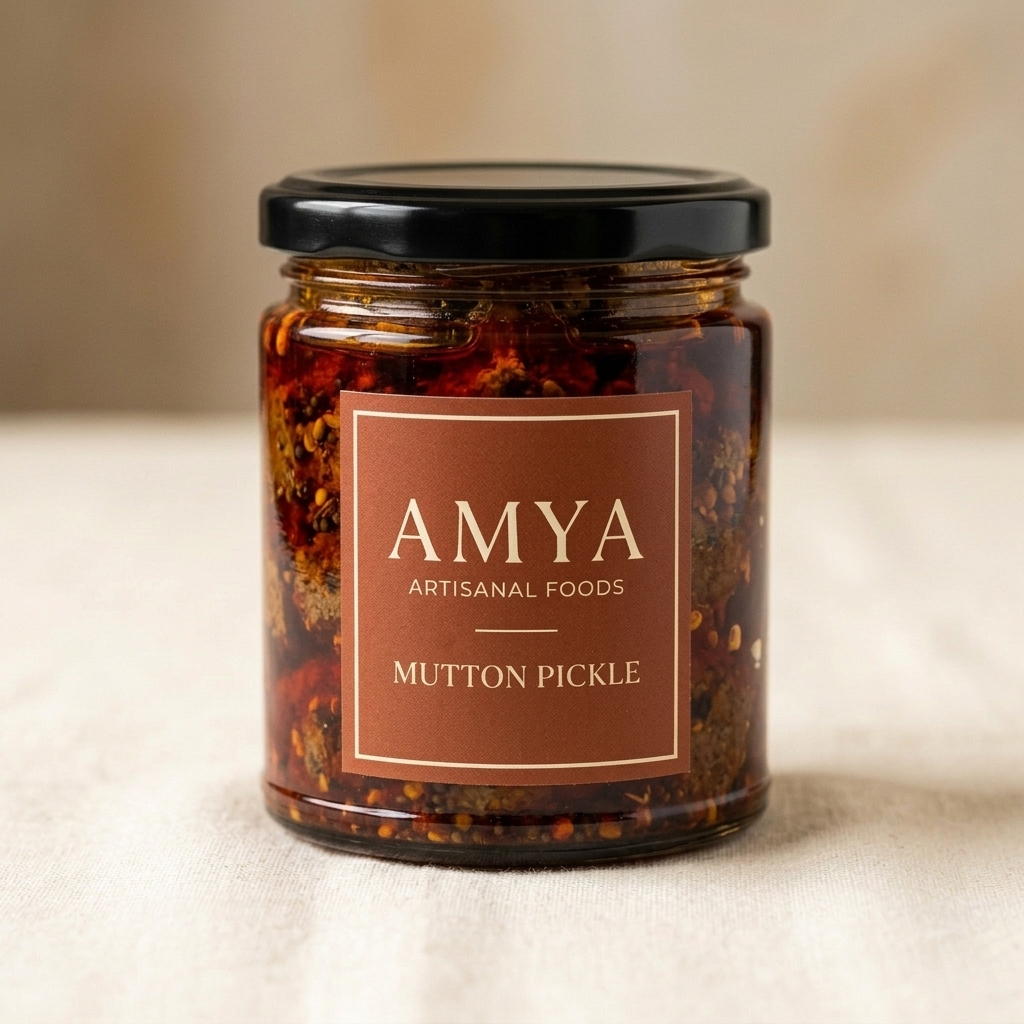
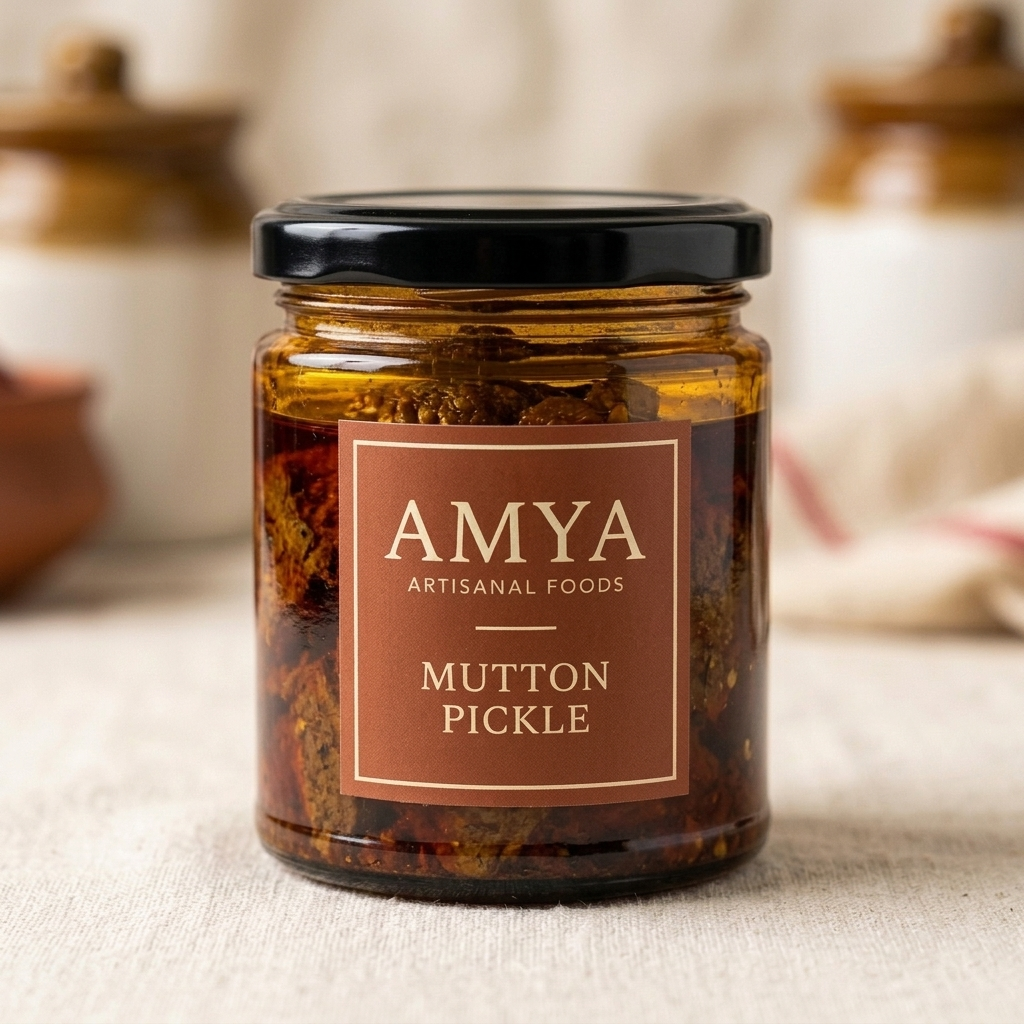
I have addressed the three targeted fixes with minimal, scoped changes and verified them through mobile preview.
**1. Oil promo card** has been compacted by adjusting paddings, gaps, and margins while keeping the same styling, wording, offers, Hyderabad-only notice, and WhatsApp button. It's shorter on mobile but remains readable.

**2. Oils show only "1 litre"** by removing the 500 ml option in the seed that sets oil pack sizes. Cards, detail pages, and variant selectors reflect this. Prices, names, availability, images, and descriptions remain unchanged.

**3. Pickle jars now are genuine amber glass** — I regenerated six pickle jars from a master jar with visibly dark amber glass, maintaining jar size, caps, and labels. Only the six pickle image files were changed; other product images were untouched. Availability and prices remain the same.

The changes have been previewed on mobile at 390px: compact card, "1 litre" only, and consistent amber jars. Preview here: https://amya-artisanal.preview.emergentagent.com (see /shop/oils and /shop/pickles).

Although these updates are in preview and not yet published, I encourage you to review them and inform me if further adjustments are needed or if the fixes work as intended. I can also continue with comprehensive testing if necessary.

**Next Steps:**
- Approve & Publish: Confirm the preview so I can deploy updates to amyafoods.in together
- Real Pickle Photos: Provide photos of actual jars to replace the current images
- Spice Prices: Share prices for Chilli, Turmeric, Cumin, Coriander to update pricing
[…]

diff --git a/frontend/src/components/OilRefillOffer.jsx b/frontend/src/components/OilRefillOffer.jsx
@@ -11,18 +11,18 @@ export const OilRefillOffer = () => {
     <Reveal>
       <div
         data-testid="oil-refill-offer"
-        className="rounded-2xl border border-terracotta/30 bg-terracotta/5 px-6 py-7 sm:px-8 sm:py-8 mb-8 sm:mb-10"
+        className="rounded-2xl border border-terracotta/30 bg-terracotta/5 px-5 py-5 sm:px-8 sm:py-7 mb-6 sm:mb-10"
       >
         <span className="font-sans text-[11px] uppercase tracking-[0.25em] text-terracotta">Hyderabad only</span>
-        <h2 className="font-serif text-2xl sm:text-3xl text-ink mt-2 leading-tight [text-wrap:balance]">
+        <h2 className="font-serif text-xl sm:text-3xl text-ink mt-1.5 leading-tight [text-wrap:balance]">
           Bring Your Own Bottle &amp; Save ₹60
         </h2>
-        <p className="font-sans text-sm sm:text-base text-ink-soft mt-2 leading-relaxed">
+        <p className="font-sans text-sm sm:text-base text-ink-soft mt-1.5 leading-relaxed">
           Ordering from Hyderabad? Save ₹60 on bottling charges.
         </p>
 
-        <div className="grid sm:grid-cols-2 gap-4 mt-6">
-          <div className="rounded-xl bg-ivory/70 border border-beige px-5 py-5" data-testid="oil-offer-refill">
+        <div className="grid sm:grid-cols-2 gap-3 mt-4">
+          <div className="rounded-xl bg-ivory/70 border border-beige px-4 py-4" data-testid="oil-offer-refill">
             <div className="flex items-center gap-2.5">
               <Droplet size={18} className="text-terracotta shrink-0" />
               <h3 className="font-sans text-xs uppercase tracking-[0.18em] text-ink font-medium">Refill &amp; Save</h3>
@@ -33,7 +33,7 @@ export const OilRefillOffer = () => {
             </p>
           </div>
 
-          <div className="rounded-xl bg-ivory/70 border border-beige px-5 py-5" data-testid="oil-offer-return">
+          <div className="rounded-xl bg-ivory/70 border border-beige px-4 py-4" data-testid="oil-offer-return">
             <div className="flex items-center gap-2.5">
               <Recycle size={18} className="text-terracotta shrink-0" />
               <h3 className="font-sans text-xs uppercase tracking-[0.18em] text-ink font-medium">Return Your AMYA Bottle</h3>

diff --git a/backend/server.py b/backend/server.py
@@ -853,7 +853,7 @@ async def seed():
         p = dict(p)
         # Standard pack-size options by category (fixed set for coming-soon ranges).
         if p.get("category") == "oils":
-            p["pack_sizes"] = [{"label": "500 ml", "price": None}, {"label": "1 litre", "price": None}]
+            p["pack_sizes"] = [{"label": "1 litre", "price": None}]
         elif p.get("category") == "pickles":
             prices = PICKLE_PRICES.get(p["slug"], [None, None, None])
             p["pack_sizes"] = [
@@ -861,7 +861,7 @@ async def seed():
                 {"label": "500 g", "price": prices[1]},
                 {"label": "1 kg", "price": prices[2]},
             ]
-            p["images"] = [f"/products/{p['slug']}.jpg?v=4"]
+            p["images"] = [f"/products/{p['slug']}.jpg?v=5"]
         images = p.pop("images", [])
         # `availability` is admin-managed inventory: set it only on first insert so
         # changes made in the admin panel (e.g. marking stock back in) persist across

diff --git a/memory/PRD.md b/memory/PRD.md
@@ -18,7 +18,13 @@ Premium pre-launch e-commerce website for AMYA Artisanal Foods (domain amayafood
 - No fabricated licences, certifications, GST, lab reports, reviews, or business history.
 - Two-colour brand identity; premium, mobile-first, responsive.
 
-## Oil "Bring Your Own Bottle" offer (2026-10-13e) — preview only, NOT yet published
+## Three targeted fixes (2026-10-13f) — preview only, NOT yet published
+- ISSUE 1: Compacted the OilRefillOffer promo card on mobile — reduced outer padding (py-7->py-5), heading/desc margins (mt-2->1.5), grid gap/margin (gap-4 mt-6 -> gap-3 mt-4), sub-card padding (py-5->py-4), bottom margin (mb-8->mb-6). Wording/colours/offers unchanged.
+- ISSUE 2: Oils now show ONLY "1 litre" — seed oil pack override (server.py ~L856) changed from [500 ml, 1 litre] to [1 litre]. Affects cards, detail pages and selectors. Pickle/spice/podi quantities untouched.
+- ISSUE 3: Pickle glass was reading as CLEAR (amber came only from contents). Regenerated all 6 with a new master jar that has thick DARK GOLDEN-BROWN AMBER GLASS visible in the empty headspace/neck/shoulders/walls (not just contents). master+edit approach for consistency; cache bumped to ?v=5. Availability/prices preserved (Avakai/Maagai out-of-stock). Spice pouches, podi, oils, cashew images untouched.
+- Verified on mobile (390px): compact card, "1 litre" only (no "500 ml"), six consistent amber jars.
+
+
 - Added an elegant terracotta/ivory promo card (`OilRefillOffer.jsx`) at the top of the oils section on /shop/oils only: "Bring Your Own Bottle & Save ₹60" with two distinct blocks — Refill & Save (₹60 bottling-charge saving) and Return Your AMYA Bottle (₹60 refund), clearly separated.
 - Hyderabad-only; "Contact Us on WhatsApp" button → wa.me/919675334567 (pre-filled msg); fine print: message before visiting + not auto-applied to online orders. No business address shown.
 - Oil prices/availability unchanged; oils stay at bottom of catalogue; no other section/design changed. Verified desktop + mobile (390px).
